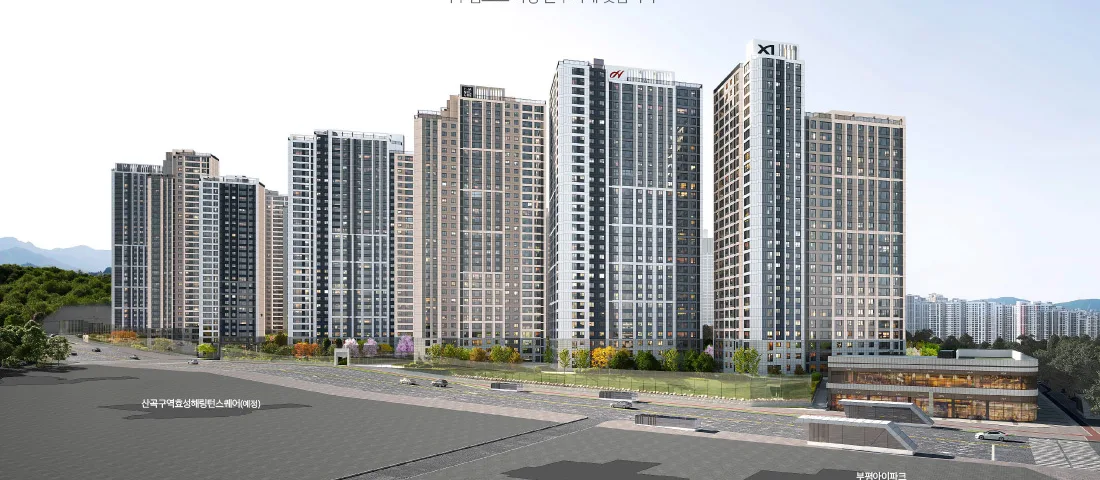
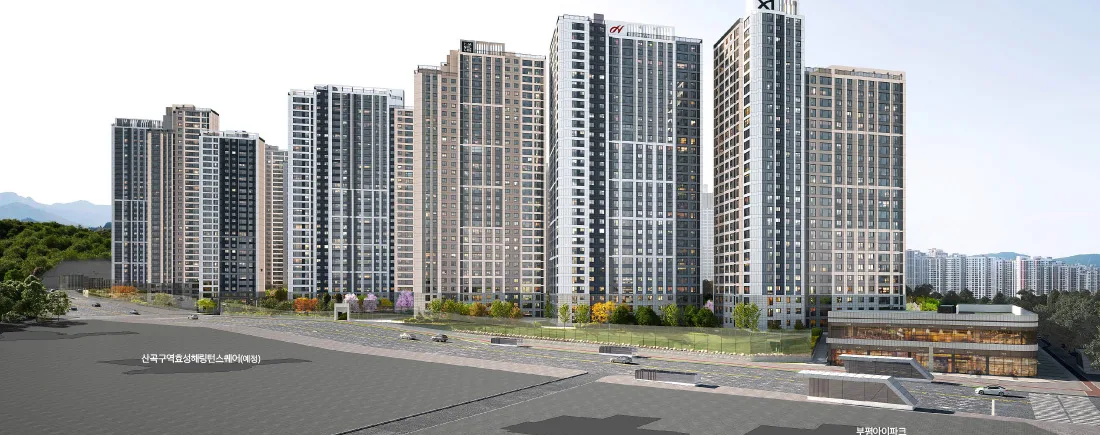
산곡: 휴대폰·태블릿·PC 글자 줄바꿈과 이미지 배치 정리
Claude-Session: https://claude.ai/code/session_01JMzkMCUVsCPJaAEC4DLA3y

diff --git a/sangok/public/index.html b/sangok/public/index.html
@@ -58,14 +58,14 @@
     </picture>
     <div class="hero__in">
       <div class="hero__copy">
-        <p class="hero__eyebrow">인천 부평구 산곡동 · 7호선 산곡역 앞</p>
+        <p class="hero__eyebrow">인천 부평구 산곡동 · 7호선 산곡역 앞</p>
         <h1 id="heroTitle">산곡역자이힐스테이트<br>&amp;하늘채</h1>
         <dl class="hero__terms" id="heroTerms">
           <div><dt>분양가 (59㎡)</dt><dd>6억대~</dd></div>
           <div><dt>총 규모</dt><dd>2,706세대</dd></div>
           <div><dt>입주</dt><dd>2029년 12월</dd></div>
         </dl>
-        <p class="hero__sub">GS건설 · 현대건설 · 코오롱글로벌 컨소시엄<br>지하 3층~지상 최고 33층 20개 동 · 일반분양 1,289세대 (전용 50~84㎡)</p>
+        <p class="hero__sub">GS건설 · 현대건설 · 코오롱글로벌 컨소시엄<br>지하 3층~지상 최고 33층 20개 동 · 일반분양 1,289세대 (전용 50~84㎡)</p>
         <p class="hero__note">※ 상기 CG는 소비자의 이해를 돕기 위한 것으로 실제와 다를 수 있습니다.</p>
       </div>
 
@@ -129,15 +129,15 @@
       <ul class="bnf" id="benefitCards">
         <li class="bnf__item bnf__item--key"><span class="bnf__k">부평 대단지</span><strong class="bnf__v"><span data-count="2706">2,706</span>세대</strong></li>
         <li class="bnf__item bnf__item--key"><span class="bnf__k">7호선 산곡역</span><strong class="bnf__v">5·6번 출구 앞</strong></li>
-        <li class="bnf__item"><span class="bnf__k">브랜드</span><strong class="bnf__v">3사 컨소시엄</strong><small>자이·힐스테이트·하늘채</small></li>
-        <li class="bnf__item"><span class="bnf__k">단지설계</span><strong class="bnf__v">공원형 단지</strong><small>지상 차 없는 단지·중앙광장</small></li>
-        <li class="bnf__item"><span class="bnf__k">설계</span><strong class="bnf__v">남향 위주</strong><small>일부 타입 4Bay·팬트리·드레스룸</small></li>
+        <li class="bnf__item"><span class="bnf__k">브랜드</span><strong class="bnf__v">3사 컨소시엄</strong><small>GS·현대·코오롱</small></li>
+        <li class="bnf__item"><span class="bnf__k">단지설계</span><strong class="bnf__v">공원형 단지</strong><small>지상 차 없는 단지</small></li>
+        <li class="bnf__item"><span class="bnf__k">설계</span><strong class="bnf__v">남향 위주</strong><small>일부 타입 4Bay</small></li>
       </ul>
     </div>
   </section>
 
   <div class="band">
-    <img src="assets/img/scale.webp" width="1100" height="480" alt="산곡역자이힐스테이트&amp;하늘채 단지 투시도" loading="lazy" decoding="async">
+    <img src="assets/img/scale.webp" width="1100" height="435" alt="산곡역자이힐스테이트&amp;하늘채 단지 투시도" loading="lazy" decoding="async">
     <div class="band__copy"><p>BRAND TOWN</p><h2>차원이 다른 스케일로<br>남다른 자부심을 누리다</h2><span>자이와 힐스테이트, 하늘채가 짓는 총 2,706세대</span></div>
   </div>
 
@@ -150,24 +150,24 @@
       <ul class="stat" aria-label="단지 규모">
         <li><b><em class="cnt" data-count="2706">2,706</em><small>세대</small></b><span>총 세대수</span></li>
         <li><b><em class="cnt" data-count="1289">1,289</em><small>세대</small></b><span>일반분양 전용 50~84㎡</span></li>
-        <li><b><em class="cnt" data-count="33">33</em><small>층</small></b><span>지하 3층~지상 최고 33층 20개 동</span></li>
+        <li><b><em class="cnt" data-count="33">33</em><small>층</small></b><span>지상 최고 33층 · 20개 동</span></li>
         <li><b>2029<small>년 12월</small></b><span>입주 예정</span></li>
       </ul>
       <dl class="facts" id="facts">
         <div class="facts__row"><dt>공급위치</dt><dd>인천광역시 부평구 산곡동 10번지 일원 (산곡6 주택재개발정비사업)</dd></div>
         <div class="facts__row"><dt>시행</dt><dd>산곡6구역 주택재개발정비사업조합</dd></div>
-        <div class="facts__row"><dt>시공</dt><dd>GS건설 · 현대건설 · 코오롱글로벌</dd></div>
+        <div class="facts__row"><dt>시공</dt><dd>GS건설 · 현대건설 · 코오롱글로벌</dd></div>
         <div class="facts__row"><dt>건축규모</dt><dd>지하 3층~지상 최고 33층, 20개 동</dd></div>
         <div class="facts__row"><dt>공급규모</dt><dd>총 2,706세대 중 일반분양 1,289세대</dd></div>
         <div class="facts__row"><dt>주택형</dt><dd>전용 50·59·75·84㎡ (9개 타입)</dd></div>
-        <div class="facts__row"><dt>입주예정</dt><dd>2029년 12월 예정 (정확한 입주일은 추후 통보)</dd></div>
+        <div class="facts__row"><dt>입주예정</dt><dd>2029년 12월 예정</dd></div>
       </dl>
 
       <div class="site" id="site">
         <div class="site__text">
           <h3 class="sub__title">단지배치도</h3>
           <p>지상에 차가 다니지 않는 공원형 단지로, 산책로·휴게공간·놀이터·어린이집을 잇는 중앙광장이 조성됩니다.</p>
-          <p>GS건설 101~106·115~116동 · 현대건설 107~114동 · 코오롱글로벌 117~120동</p>
+          <p>GS건설 101~106·115~116동 · 현대건설 107~114동 · 코오롱글로벌 117~120동</p>
         </div>
         <figure class="fig fig--site js-zoom" data-hires="assets/img/siteplan.webp"><img src="assets/img/siteplan-900.webp" srcset="assets/img/siteplan-900.webp 900w, assets/img/siteplan.webp 1100w" sizes="(max-width:1023px) 100vw, 760px" width="1100" height="937" alt="산곡역자이힐스테이트&amp;하늘채 단지배치도" loading="lazy" decoding="async"></figure>
       </div>
@@ -175,8 +175,8 @@
         <h3 class="sub__title">단지설계 <small>한 걸음 앞선 설계로 한 차원 높은 삶으로</small></h3>
         <figure class="fig js-zoom" data-hires="assets/img/complex.webp"><img src="assets/img/complex.webp" width="1028" height="660" alt="단지 전경 CG" loading="lazy" decoding="async"></figure>
         <ul class="comm__list">
-          <li><b>랜드마크 디자인</b>단지 규모에 걸맞은 차별화된 경관 계획 · 보행 친화적 가로경관 · 입체적 단지배치</li>
-          <li><b>테마 조경</b>산소리마당 · 물소리마당 · 커뮤니티마당 · 어린이놀이터 · 주민운동시설</li>
+          <li><b>랜드마크 디자인</b>단지 규모에 걸맞은 차별화된 경관 계획 · 보행 친화적 가로경관 · 입체적 단지배치</li>
+          <li><b>테마 조경</b>산소리마당 · 물소리마당 · 커뮤니티마당 · 어린이놀이터 · 주민운동시설</li>
         </ul>
       </div>
     </div>
@@ -202,9 +202,9 @@
         <div class="site__text">
           <h3 class="sub__title">커뮤니티 배치</h3>
           <ul class="comm__list">
-            <li><b>스포츠</b>피트니스 · G·X룸(그룹필라테스) · 골프연습장 · 스크린골프 · 사우나</li>
-            <li><b>에듀</b>독서실(남/여) · 1인 독서실(남/여) · 작은도서관(교보문고) · 에듀홀</li>
-            <li><b>라이프</b>카페라운지 · 게스트하우스</li>
+            <li><b>스포츠</b>피트니스 · G·X룸(그룹필라테스) · 골프연습장 · 스크린골프 · 사우나</li>
+            <li><b>에듀</b>독서실(남/여) · 1인 독서실(남/여) · 작은도서관(교보문고) · 에듀홀</li>
+            <li><b>라이프</b>카페라운지 · 게스트하우스</li>
           </ul>
         </div>
         <figure class="fig js-zoom" data-hires="assets/img/comm-map.webp"><img src="assets/img/comm-map.webp" width="1100" height="900" alt="커뮤니티 시설 배치 이미지" loading="lazy" decoding="async"></figure>
@@ -229,27 +229,27 @@
       <div class="sec__head"><p class="sec__eyebrow">LOCATION</p>
       <h2 class="sec__title" id="locTitle">서울을 더 빠르게, 7호선 산곡역 바로 앞</h2>
       <p class="sec__desc">역세권에 안심 학세권, 생활 인프라까지 한걸음에 누리는 중심 입지입니다.</p></div>
-      <div class="comm__grid" style="margin-bottom:24px">
-        <figure class="fig js-zoom" data-hires="assets/img/loc-map.webp"><img src="assets/img/loc-map.webp" width="1100" height="960" alt="입지 지도와 7호선 역별 소요시간" loading="lazy" decoding="async"><figcaption>입지 지도 · 7호선 소요시간 (크게 보기)</figcaption></figure>
+      <div class="locfig">
+        <figure class="fig js-zoom" data-hires="assets/img/loc-map.webp"><img src="assets/img/loc-map.webp" width="1100" height="960" alt="입지 지도와 7호선 역별 소요시간" loading="lazy" decoding="async"><figcaption>입지 지도 · 7호선 소요시간 (크게 보기)</figcaption></figure>
         <figure class="fig js-zoom" data-hires="assets/img/loc-air.webp"><img src="assets/img/loc-air.webp" width="1100" height="700" alt="인천을 새롭게 대표할 브랜드 타운 항공 이미지" loading="lazy" decoding="async"><figcaption>총 2,706세대 브랜드 타운</figcaption></figure>
       </div>
       <div class="loc" id="locBody">
         <div class="loc__grp">
           <h3>교통</h3>
-          <div class="loc__item"><b>서울 7호선 산곡역 5·6번 출구 바로 앞</b><span>부평구청역 2분 · 석남역 3분 · 부천종합운동장역 14분 · 온수역 19분 · 가산디지털단지역 29분 · 대림역 33분 · 고속터미널역 55분</span></div>
+          <div class="loc__item"><b>서울 7호선 산곡역 5·6번 출구 바로 앞</b><span>부평구청역 2분 · 석남역 3분 · 부천종합운동장역 14분 · 온수역 19분 · 가산디지털단지역 29분 · 대림역 33분 · 고속터미널역 55분</span></div>
           <div class="loc__item"><b>7호선 청라 연장 <em>계획</em></b><span>강남~구로~부천~산곡~청라</span></div>
-          <div class="loc__item"><b>경인고속도로 부평IC · 수도권제1순환고속도로 중동IC</b><span>길주로 · 마장로 · 부평대로 인접</span></div>
+          <div class="loc__item"><b>경인고속도로 부평IC · 수도권제1순환고속도로 중동IC</b><span>길주로 · 마장로 · 부평대로 인접</span></div>
         </div>
         <div class="loc__grp">
           <h3>교육</h3>
-          <div class="loc__item"><b>더블 초품아 · 인천산곡북초 · 인천마곡초</b><span>단지 앞 도보 통학</span></div>
-          <div class="loc__item"><b>산곡중 · 청천중</b><span>세일고 · 명신여고 · 인천외고 등</span></div>
+          <div class="loc__item"><b>더블 초품아 · 인천산곡북초 · 인천마곡초</b><span>단지 앞 도보 통학</span></div>
+          <div class="loc__item"><b>산곡중 · 청천중</b><span>세일고 · 명신여고 · 인천외고 등</span></div>
         </div>
         <div class="loc__grp">
-          <h3>자연 · 미래가치</h3>
-          <div class="loc__item"><b>원적산(체육)공원 · 원적산 둘레길</b><span>뫼골놀이공원 · 인천나비공원</span></div>
+          <h3>자연 · 미래가치</h3>
+          <div class="loc__item"><b>원적산(체육)공원 · 원적산 둘레길</b><span>뫼골놀이공원 · 인천나비공원</span></div>
           <div class="loc__item"><b>신흥 주거타운 <em>예정</em></b><span>주변 정비사업 진행(예정)</span></div>
-          <div class="loc__item"><b>옛 1113군부대 도시개발 <em>계획</em> · 옛 캠프마켓 공원화 <em>계획</em></b><span>롯데마트 · 부평구청 등 생활 인프라 인접</span></div>
+          <div class="loc__item"><b>옛 1113군부대 도시개발 <em>계획</em> · 옛 캠프마켓 공원화 <em>계획</em></b><span>롯데마트 · 부평구청 등 생활 인프라 인접</span></div>
         </div>
         <p class="loc__warn">※ 교통·개발 계획은 예정 사항으로 관계기관 사정에 따라 변경되거나 지연될 수 있습니다.</p>
       </div>
@@ -261,7 +261,7 @@
     <div class="wrap">
       <div class="sec__head"><p class="sec__eyebrow">UNIT PLAN</p>
       <h2 class="sec__title" id="planTitle">세대안내</h2>
-      <p class="sec__desc">일반분양은 전용 50·59·75·84㎡ 9개 타입 1,289세대입니다.</p></div>
+      <p class="sec__desc">전용 50~84㎡ 9개 타입, 일반분양 1,289세대</p></div>
 
       <div class="pp" id="pp-apt">
         <div class="utbl-wrap">
@@ -279,8 +279,8 @@
             <h3>계약고객 대상<br>추가 무상제공품목</h3>
             <ul>
               <li>3구 인덕션<small>LG전자</small></li>
-              <li>천장형 시스템에어컨<small>LG전자 · 1층 전체 / 2층 이상 거실+침실1</small></li>
-              <li>붙박이장<small>59㎡ 이상 · 침실2 또는 침실3 중 1개소</small></li>
+              <li>천장형 시스템에어컨<small>LG전자 · 1층 전체 / 2층 이상 거실+침실1</small></li>
+              <li>붙박이장<small>59㎡ 이상 · 침실2 또는 침실3 중 1개소</small></li>
               <li>현관 중문<small>3연동 자동중문</small></li>
               <li>비데일체형 양변기<small>부부욕실 1개 (50㎡ 가족욕실 1개)</small></li>
               <li>식기세척기<small>LG전자</small></li>
@@ -305,11 +305,11 @@
           <h3 class="sub__title">납부 조건</h3>
           <table class="terms-table">
             <tbody>
-              <tr><th scope="row">분양가</th><td>50㎡ 5억대~ · 59㎡ 6억대~ · 75㎡ 8억대~ · 84㎡ 9억대~ <span>동·층별 분양가는 상담 시 안내</span></td></tr>
+              <tr><th scope="row">분양가</th><td><span class="nw">50㎡ 5억대~</span> <span class="nw">59㎡ 6억대~</span> <span class="nw">75㎡ 8억대~</span> <span class="nw">84㎡ 9억대~</span> <span>동·층별 분양가는 상담 시 안내</span></td></tr>
               <tr><th scope="row">계약금</th><td>5% <span>계약 시 1차 1,000만 원 정액 + 잔여 계약금</span></td></tr>
-              <tr><th scope="row">중도금</th><td>60% <span>1~6차 각 10% · 대출 조건은 상담 시 안내</span></td></tr>
+              <tr><th scope="row">중도금</th><td>60% <span>1~6차 각 10% · 대출 조건은 상담 시 안내</span></td></tr>
               <tr><th scope="row">잔금</th><td>35% <span>입주 시 (2029년 12월 예정)</span></td></tr>
-              <tr><th scope="row">발코니 확장</th><td>유상 <span>타입별 700만~2,190만 원 (부가세 포함) · 상담 시 안내</span></td></tr>
+              <tr><th scope="row">발코니 확장</th><td>유상 <span>타입별 700만~2,190만 원 (부가세 포함) · 상담 시 안내</span></td></tr>
             </tbody>
           </table>
         </div>
@@ -385,9 +385,9 @@
 <footer class="ft">
   <div class="wrap">
     <p class="ft__name">산곡역자이힐스테이트&amp;하늘채</p>
-    <p class="ft__line" id="ftSite">현장 : 인천광역시 부평구 산곡동 10번지 일원 · 견본주택 : 인천광역시 부평구 산곡동 43-2번지</p>
-    <p class="ft__line" id="ftBiz">시행 산곡6구역 주택재개발정비사업조합 · 시공 GS건설 · 현대건설 · 코오롱글로벌</p>
-    <p class="ft__line">분양문의 <a class="js-call ft__tel" href="#register" data-call-label="phone"><span class="js-phone-text">1688-8149</span></a> · 담당 제갈 숙</p>
+    <p class="ft__line" id="ftSite">현장 : 인천광역시 부평구 산곡동 10번지 일원 · 견본주택 : 인천광역시 부평구 산곡동 43-2번지</p>
+    <p class="ft__line" id="ftBiz">시행 산곡6구역 주택재개발정비사업조합 · 시공 GS건설 · 현대건설 · 코오롱글로벌</p>
+    <p class="ft__line">분양문의 <a class="js-call ft__tel" href="#register" data-call-label="phone"><span class="js-phone-text">1688-8149</span></a> · 담당 제갈 숙</p>
     <p class="ft__links"><button type="button" class="link link--light js-privacy" id="openPrivacy2">개인정보 처리방침</button></p>
     <p class="ft__disc" id="ftDisc">본 홈페이지의 이미지·CG·지도는 소비자의 이해를 돕기 위한 참고용이며 실제와 다를 수 있습니다. 분양가·면적·일정 등 세부 사항은 입주자모집공고 및 계약서를 통해 반드시 확인하시기 바랍니다.</p>
   </div>

diff --git a/sangok/public/sangok.css b/sangok/public/sangok.css
@@ -86,3 +86,37 @@
 .rv{opacity:0;transform:translateY(28px);transition:opacity .8s ease,transform .8s cubic-bezier(.2,.7,.2,1)}
 .rv.rv--in{opacity:1;transform:none}
 @media (prefers-reduced-motion:reduce){.rv{opacity:1;transform:none}.hero__photo img,.hero__slide{animation:none}.hero__slide{opacity:0}}
+
+/* ── 간격·배치 정리 ── */
+.nw{white-space:nowrap}
+.core__slide{scroll-snap-stop:always}
+
+/* 입지 이미지: 두 장 높이 맞춤 */
+.locfig{display:grid;gap:12px;margin:0 0 28px}
+.locfig .fig{margin:0}
+@media (min-width:768px){.locfig{grid-template-columns:1.146fr 1.571fr;gap:16px}}
+
+/* 평면도: 휴대폰 2열, 태블릿 이상 3열 (9개가 딱 맞게) */
+.pgrid{grid-template-columns:1fr 1fr;gap:10px}
+@media (min-width:768px){.pgrid{grid-template-columns:repeat(3,1fr);gap:16px}}
+@media (max-width:767px){
+  .pgrid .pfig:last-child:nth-child(odd){grid-column:1/-1;width:calc(50% - 5px);justify-self:center}
+  .pfig{padding:8px 8px 6px}
+  .pfig figcaption{font-size:12.5px}
+  .pfig figcaption b{font-size:14.5px}
+  .pfig figcaption span{display:none}
+}
+
+/* 스케일 밴드: 휴대폰에선 글을 사진 위 남색 띠로 */
+@media (max-width:767px){
+  .band__copy{position:static;background:#0B2240;padding:26px 20px 22px}
+  .band{display:flex;flex-direction:column-reverse}
+  .band img{height:auto;aspect-ratio:1100/435}
+}
+
+/* 무상품목 이미지: 휴대폰에선 숨김(내용 중복), 큰 화면에선 크기 제한 */
+@media (max-width:767px){.free .fig{display:none}}
+@media (min-width:768px){.free{grid-template-columns:1.25fr 1fr}.free .fig{max-width:380px;justify-self:end}}
+
+/* 핵심가치 작은 글씨 한 줄 */
+.sec--deep .bnf__item small{white-space:nowrap;overflow:hidden;text-overflow:ellipsis}
